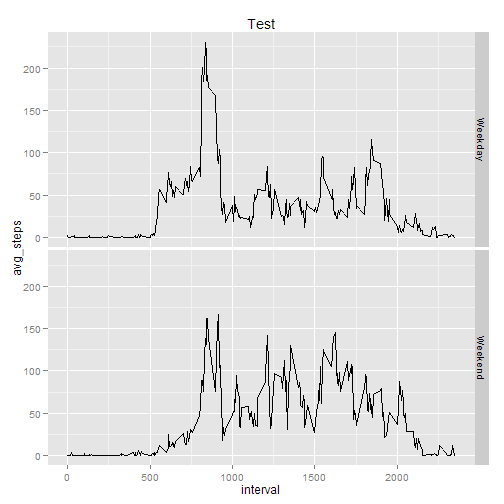
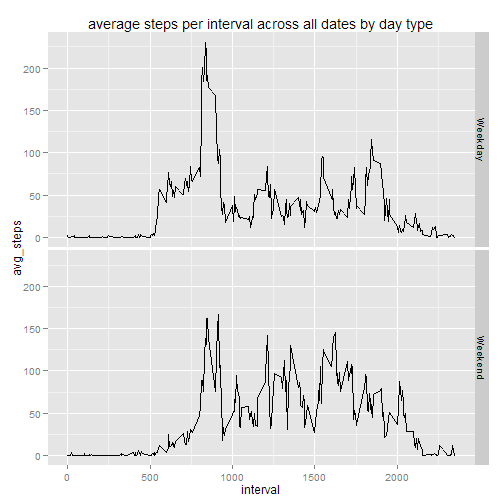
revised work

Changed region(s): [[0.1786, 0.0298, 0.8631, 0.0595]]

diff --git a/PA1_template.html b/PA1_template.html
@@ -226,10 +226,10 @@ barplot(main = &quot;Total Number of Steps per Day&quot;, sum_by_date$sum_steps,
 <pre><code class="r"># calcuate total and average steps made per interval across all days
 interval_time_series &lt;- dt[,list(sum_steps = sum(steps, na.rm = TRUE), avg_steps = mean(steps, na.rm = TRUE)),by=&#39;interval&#39;]
 # plot the time series
-plot(interval_time_series$interval, interval_time_series$avg_steps, type = &quot;l&quot;)
+plot(interval_time_series$interval, interval_time_series$avg_steps, type = &quot;l&quot;, main = &quot;Average Steps per 5-min Interval&quot;)
 </code></pre>
 
[2 lines of base64/hex data omitted]
 
 <pre><code class="r"># identify interval that has highest steps made across all days
 max_interval_record &lt;- interval_time_series[,.SD[which.max(sum_steps)]]
@@ -264,10 +264,10 @@ dt &lt;- dt[,new_steps := ifelse(is.na(steps),avg_steps,steps)]
 <pre><code class="r"># adding in summary table a new column for revised daily total steps 
 new_sum_by_date &lt;- merge(sum_by_date, dt[,list(new_sum_steps = sum(new_steps)),by=&#39;date&#39;], by = &quot;date&quot;)
 # plot the histogram
-barplot(new_sum_by_date$new_sum_steps,names.arg=new_sum_by_date$date, las = 3, cex.axis=1.0, cex.names = 0.75)
+barplot(new_sum_by_date$new_sum_steps,names.arg=new_sum_by_date$date, las = 3, cex.axis=1.0, cex.names = 0.75, main = &quot;Revised Historgram of Total Steps per Day&quot;)
 </code></pre>
 
[2 lines of base64/hex data omitted]
 
 <p>Because average interval values were used to fill in the missing values, the revised overall mean and median values did not change much:</p>
 
@@ -321,10 +321,10 @@ mean_and_median_3
 <pre><code class="r"># calculate average steps per interval across all dates by day type
 interval_time_series_2 &lt;- dt[,list(sum_steps = sum(new_steps, na.rm = TRUE), avg_steps = mean(new_steps, na.rm = TRUE)),by=c(&#39;interval&#39;,&#39;date_type&#39;)]
 # plot seperate panels
-qplot(interval,avg_steps,data = interval_time_series_2,facets = date_type ~ ., main = &quot;Test&quot;, geom = &quot;line&quot;)
+qplot(interval,avg_steps,data = interval_time_series_2,facets = date_type ~ ., main = &quot;average steps per interval across all dates by day type&quot;, geom = &quot;line&quot;)
 </code></pre>
 
[2 lines of base64/hex data omitted]
 
 </body>
 

diff --git a/PA1_template.md b/PA1_template.md
@@ -8,9 +8,24 @@ output:
 
 ## Loading and preprocessing the data
 
-```{r}
+
+```r
 library(data.table)
+```
+
+```
+## Warning: package 'data.table' was built under R version 3.1.1
+```
+
+```r
 library(ggplot2)
+```
+
+```
+## Warning: package 'ggplot2' was built under R version 3.1.1
+```
+
+```r
 setwd('~/git_repo/RepData_PeerAssessment1/')
 data_file <- 'activity.csv'
 dt <- data.table( read.csv(data_file) )
@@ -22,7 +37,8 @@ dt <- data.table( read.csv(data_file) )
 
 On avereage, the subject was making about 10766 steps a day.
 
-```{r}
+
+```r
 # calcuate total steps per date
 sum_by_date <- dt[,list(sum_steps = sum(steps)),by='date']
 # calcuate mean and median values for daily total steps
@@ -30,11 +46,19 @@ mean_and_median <- sum_by_date[ ,list( mean = mean(sum_steps, na.rm = TRUE), med
 mean_and_median
 ```
 
+```
+##        mean median
+## 1: 10766.19  10765
+```
 
-```{r}
+
+
+```r
 # plot total number of steps per day
 barplot(main = "Total Number of Steps per Day", sum_by_date$sum_steps,names.arg=sum_by_date$date, las = 3, cex.axis=1.0, cex.names = 0.5)
 ```
+
+![plot of chunk unnamed-chunk-3](figure/unnamed-chunk-3-1.png) 
 
 
 
@@ -42,18 +66,27 @@ barplot(main = "Total Number of Steps per Day", sum_by_date$sum_steps,names.arg=
 
 The steps made start to be observed right after 5am and peaked at 8:35am. After 8pm, steps made were decreasing rapidly.
 
-```{r}
+
+```r
 # calcuate total and average steps made per interval across all days
 interval_time_series <- dt[,list(sum_steps = sum(steps, na.rm = TRUE), avg_steps = mean(steps, na.rm = TRUE)),by='interval']
 # plot the time series
 plot(interval_time_series$interval, interval_time_series$avg_steps, type = "l", main = "Average Steps per 5-min Interval")
 ```
 
+![plot of chunk unnamed-chunk-4](figure/unnamed-chunk-4-1.png) 
 
-```{r}
+
+
+```r
 # identify interval that has highest steps made across all days
 max_interval_record <- interval_time_series[,.SD[which.max(sum_steps)]]
 max_interval_record
+```
+
+```
+##    interval sum_steps avg_steps
+## 1:      835     10927  206.1698
 ```
 
 
@@ -61,14 +94,20 @@ max_interval_record
 
 There are 2,304 missing values observed in the dataset.
 
-```{r}
+
+```r
 # calcualte amount of NA rows
 sum(is.na(dt$steps))
 ```
 
+```
+## [1] 2304
+```
+
 We decided to use the average value of the same interval across all days to fill in the missing value.
 
-```{r}
+
+```r
 # adding in main/raw data.table a new column for average steps per interval across all days
 dt <- merge(dt, interval_time_series, by="interval" )
 # adding in new columnn for revised steps per interval by replacing NA with average steps per interval across all days
@@ -78,21 +117,30 @@ dt <- dt[,new_steps := ifelse(is.na(steps),avg_steps,steps)]
 
 Here're the revised historgram of the total number of steps taken each day (orginal missing values filled in with the average value of the same interval across all days)
 
-```{r}
+
+```r
 # adding in summary table a new column for revised daily total steps 
 new_sum_by_date <- merge(sum_by_date, dt[,list(new_sum_steps = sum(new_steps)),by='date'], by = "date")
 # plot the histogram
 barplot(new_sum_by_date$new_sum_steps,names.arg=new_sum_by_date$date, las = 3, cex.axis=1.0, cex.names = 0.75, main = "Revised Historgram of Total Steps per Day")
 ```
 
+![plot of chunk unnamed-chunk-8](figure/unnamed-chunk-8-1.png) 
+
 
 Because average interval values were used to fill in the missing values, the revised overall mean and median values did not change much:
 
-```{r}
+
+```r
 # calculating new mean and median values for average daily total steps
 mean_and_median_2 <- new_sum_by_date[ ,list( revised_mean = mean(new_sum_steps, na.rm = TRUE), revised_median = median(new_sum_steps, na.rm = TRUE))]
 # print result
 mean_and_median_2
+```
+
+```
+##    revised_mean revised_median
+## 1:     10766.19       10766.19
 ```
 
 
@@ -101,13 +149,23 @@ mean_and_median_2
 
 Adding additional column for weekday/weekend variable factor:
 
-```{r}
+
+```r
 # adding column for weekday
 dt <- dt[,weekday:=weekdays(as.Date(date))]
 # adding column for weekday/weekend variable factor
 dt <- dt[,date_type:=ifelse(weekday=="Saturday" | weekday=="Sunday","Weekend","Weekday")]
 # count distinct dates by day-type
 dt[,list(distinct_date_count=length(unique(date))),by="date_type"]
+```
+
+```
+##    date_type distinct_date_count
+## 1:   Weekday                  45
+## 2:   Weekend                  16
+```
+
+```r
 # adding weekday variables to summary table
 new_sum_by_date <- new_sum_by_date[,weekday:=weekdays(as.Date(date))]
 new_sum_by_date <- new_sum_by_date[,date_type:=ifelse(weekday=="Saturday" | weekday=="Sunday","Weekend","Weekday")]
@@ -116,21 +174,30 @@ new_sum_by_date <- new_sum_by_date[,date_type:=ifelse(weekday=="Saturday" | week
 
 The mean and median total daily steps are higher during weekends than during weekdays.
 
-```{r}
+
+```r
 # calculate mean and median average total daily steps by day type
 mean_and_median_3 <- new_sum_by_date[ ,list( revised_mean = mean(new_sum_steps, na.rm = TRUE), revised_median = median(new_sum_steps, na.rm = TRUE)),by="date_type"]
 # print result
 mean_and_median_3
+```
 
+```
+##    date_type revised_mean revised_median
+## 1:   Weekday     10255.85          10765
+## 2:   Weekend     12201.52          11646
 ```
 
 
 Here's the panel plot of the 5-minute interval (x-axis) and the average number of steps taken, averaged across all weekday days or weekend days (y-axis).  It showed the amount of steps were made relatively more evenly across the day during weekends:
 
-```{r}
+
+```r
 # calculate average steps per interval across all dates by day type
 interval_time_series_2 <- dt[,list(sum_steps = sum(new_steps, na.rm = TRUE), avg_steps = mean(new_steps, na.rm = TRUE)),by=c('interval','date_type')]
 # plot seperate panels
 qplot(interval,avg_steps,data = interval_time_series_2,facets = date_type ~ ., main = "average steps per interval across all dates by day type", geom = "line")
 ```
+
+![plot of chunk unnamed-chunk-12](figure/unnamed-chunk-12-1.png) 
 
